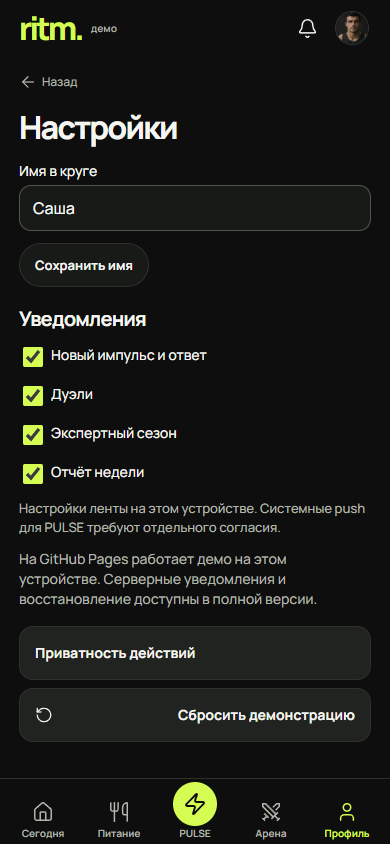
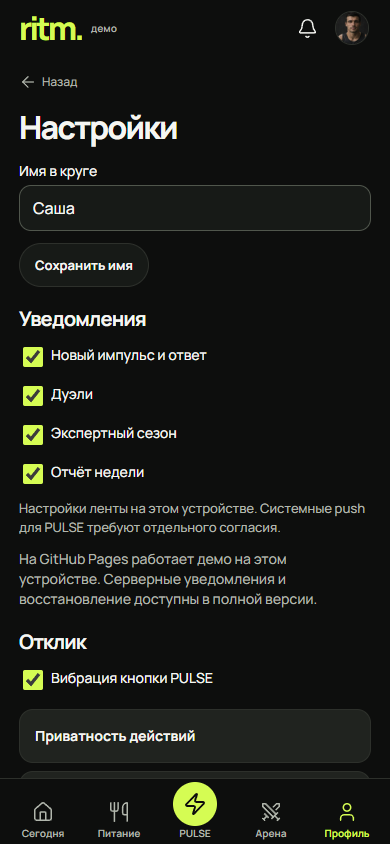
Give the PULSE button a two-beat tactile response

Changed region(s): [[0.0308, 0.7393, 0.9231, 0.8934]]

diff --git a/docs/premium.js b/docs/premium.js
@@ -35,6 +35,24 @@ const eventTime = stamp => S.server_time-stamp<86400?RitmHome.relative(stamp,S.s
 function homeHelpers() {
   return {I,e,demo,weekly,incoming,time,dinner:dishes().find(m=>m.type==='Ужин')};
 }
+const heartbeatPattern = [35, 85, 55];
+let nextHeartbeat = 0;
+function hapticsEnabled() {
+  return read('pulseHaptics') ?? !matchMedia('(prefers-reduced-motion: reduce)').matches;
+}
+function heartbeat() {
+  const now = performance.now();
+  if (document.hidden || now < nextHeartbeat) return;
+  nextHeartbeat = now + 240;
+  document.querySelector('#nav .pulse-nav')?.classList.add('heartbeat');
+  if (hapticsEnabled() && typeof navigator.vibrate === 'function') {
+    try { navigator.vibrate(heartbeatPattern); } catch { /* Some hosts block device vibration. */ }
+  }
+}
+function hapticSetting() {
+  if (typeof navigator.vibrate !== 'function') return '';
+  return '<h2>Отклик</h2><label class="checks"><input id="pulse-haptics" type="checkbox" '+(hapticsEnabled()?'checked':'')+'>Вибрация кнопки PULSE</label>';
+}
 function today() { return RitmHome.render(S,homeHelpers()); }
 function homeSheet(title,body) {
   document.getElementById('home-sheet')?.remove();
@@ -165,7 +183,7 @@ function recap() {
     muted('Ответы от друзей за 7 дней · '+contacts+'. В общей карточке виден только итог твоего плана.')+
     b('Поделиться карточкой','share-recap','btn full','share-2')+b('Скачать PNG','download-recap','textbtn full');
 }
-function settingsView(){const n=read('notifs')||{};return head('Настройки')+field('nickname','Имя в круге',S.profile.name,'text','maxlength="30"')+b('Сохранить имя','rename','linebtn')+'<h2>Уведомления</h2>'+[['pulse','Новый импульс и ответ'],['duel','Дуэли'],['season','Экспертный сезон'],['report','Отчёт недели']].map(([k,v])=>'<label class="checks"><input type="checkbox" data-pref="'+k+'" '+(n[k]!==false?'checked':'')+'>'+v+'</label>').join('')+'<p class="hint">Настройки ленты на этом устройстве. Системные push для PULSE требуют отдельного согласия.</p>'+(demo?muted('На GitHub Pages работает демо на этом устройстве. Серверные уведомления и восстановление доступны в полной версии.'):'<div class="row">'+b('Включить push','pushon','linebtn')+b('Отключить push','pushoff','linebtn')+'</div><h2>Доступ к профилю</h2>'+b('Получить одноразовый код','getcode','linebtn')+(code?'<p class="safe">'+e(code)+'</p>':'')+field('recovery','Код восстановления','','password','autocomplete="off"')+b('Восстановить','restore','linebtn'))+b('Приватность действий','go:privacy','choice')+(demo?b('Сбросить демонстрацию','resetask','choice','rotate-ccw'):'');}
+function settingsView(){const n=read('notifs')||{};return head('Настройки')+field('nickname','Имя в круге',S.profile.name,'text','maxlength="30"')+b('Сохранить имя','rename','linebtn')+'<h2>Уведомления</h2>'+[['pulse','Новый импульс и ответ'],['duel','Дуэли'],['season','Экспертный сезон'],['report','Отчёт недели']].map(([k,v])=>'<label class="checks"><input type="checkbox" data-pref="'+k+'" '+(n[k]!==false?'checked':'')+'>'+v+'</label>').join('')+'<p class="hint">Настройки ленты на этом устройстве. Системные push для PULSE требуют отдельного согласия.</p>'+(demo?muted('На GitHub Pages работает демо на этом устройстве. Серверные уведомления и восстановление доступны в полной версии.'):'<div class="row">'+b('Включить push','pushon','linebtn')+b('Отключить push','pushoff','linebtn')+'</div><h2>Доступ к профилю</h2>'+b('Получить одноразовый код','getcode','linebtn')+(code?'<p class="safe">'+e(code)+'</p>':'')+field('recovery','Код восстановления','','password','autocomplete="off"')+b('Восстановить','restore','linebtn'))+hapticSetting()+b('Приватность действий','go:privacy','choice')+(demo?b('Сбросить демонстрацию','resetask','choice','rotate-ccw'):'');}
 function notificationsView(){const pref=read('notifs')||{},notes=[];if(pref.pulse!==false)(S.feed||[]).filter(x=>x.person!==S.profile.id).slice(0,4).forEach(x=>notes.push([x.to_me?'Друг ответил своим делом':'Друг уже в движении',(x.name||'Друг')+' · '+labels[x.kind],'pulse']));if(pref.duel!==false&&S.games.some(g=>g.mode==='duel'&&g.active))notes.push(['Дуэль началась','Открой счёт и историю своих дней.','arena']);if(pref.report!==false&&weekly().total)notes.push(['Доступен RITM RECAP','Посмотри, какие дела вошли в неделю.','recap']);if(pref.season!==false&&demo)notes.push(['Сезоны открыты для просмотра','Демонстрационная витрина FOOD, RESET и DUO.','store']);return head('Уведомления')+(notes.length?notes.map(([t,m,k])=>'<button class="choice" data-a="go:'+k+'"><span>'+e(t)+'<br><small>'+e(m)+'</small></span>'+I('chevron-right')+'</button>').join(''):muted('Пока новых событий нет.'))+b('Настроить','go:settings','linebtn');}
 function renderMisc(){switch(view){
  case 'settings':return settingsView();case 'notifications':return notificationsView();
@@ -197,7 +215,7 @@ function clearInvite(){pendingGuest=null;guestInfo=null;const u=new URL(location
 async function seasonSave(){const existing=S.season,d=S.dna||{},plan=existing?{...existing.plan}:{focus:d.goal||'Регулярность тренировок',duration:Number(d.minutes)||20,place:d.place||'Дома',equipment:d.gear||'Без оборудования',adaptation:'Подойдёт привычная нагрузка',food_for:'Для себя',cooking:'15 минут',budget:d.budget||'Важна доступная цена'};plan.days=Number($('#days').value);let v=id=>$(id)?.value?Number($(id).value):null;
 await write('season',{plan,comparison:existing?existing.comparison:($('#comp')?.value||''),baseline:existing?existing.baseline:v('#base'),target:v('#target')});save('days',plan.days);notice('Условия сезона сохранены.');route('profile');}
 async function handle(id){const [cmd,...args]=id.split(':'),v=args.join(':');if(cmd!=='time')document.getElementById('home-sheet')?.close();if(!['complete','time','short','kind','workdone'].includes(cmd))pendingWorkout=null;switch(cmd){
- case 'go':if(v==='today'&&view==='intro')save('entered',true);if(v==='store')expose('offers');if(v==='train'&&view==='today')trainingKey='';route(v);break;
+ case 'go':if(v==='today'&&view==='intro')save('entered',true);if(v==='store')expose('offers');if(v==='train'&&view==='today')trainingKey='';route(v);if(v==='pulse')heartbeat();break;
  case 'sheetclose':document.getElementById('home-sheet')?.close();break;
  case 'quicktime':showHomeTime();break;
  case 'homeplan':showHomePlan();break;
@@ -231,7 +249,7 @@ async function handle(id){const [cmd,...args]=id.split(':'),v=args.join(':');if(
  case 'complete':{const isAnswer=Boolean(reply);if(!S.profile.goal&&!S.games.length){route('name');notice('Сначала сохрани профиль или прими приглашение.');break;}
  if(taskKind==='food'&&!allows(recipe(recipeChoice)))throw Error('Выбери блюдо с подходящим составом.');
  const visibility=($('#visible')?.checked||reply)?'circle':'private';const out=await write('done',{kind:taskKind,minutes:time,task:taskKind==='food'?recipe(recipeChoice).name:taskKind,visibility,...(pendingWorkout?{training:pendingWorkout}:{}),variant:time<=5?'alternative':'original',...(reply||{}),...(activeGame?{game:activeGame}:{})});
- pendingWorkout=null;reply=null;activeGame='';privateAction=true;save('entered',true);route('today');if(isAnswer)document.querySelector('.home-pulse')?.classList.add('pulse-sent');notice('Действие сохранено.');break;}
+ pendingWorkout=null;reply=null;activeGame='';privateAction=true;save('entered',true);route('today');if(isAnswer){document.querySelector('.home-pulse')?.classList.add('pulse-sent');heartbeat();}notice('Действие сохранено.');break;}
  case 'setup':arenaMode=v;route('setup');break;case 'together':arenaMode='together';route('setup');break;case 'gamekind':gameKind=v;draw();break;
  case 'create-mode':{let mode={team:'circle',week:'duel',together:'circle'}[arenaMode]||arenaMode;let slot=$('#slot')?.value;const res=await write('create',{mode,kind:gameKind,proposed:slot?Math.floor(new Date(slot).getTime()/1000):null});route('share',res.game);break;}
  case 'create':{const r=await write('create',{mode:v,kind:'move'});route('share',r.game);break;}
@@ -270,7 +288,7 @@ async function shareText(t,text){if(navigator.share){await navigator.share({titl
 async function recapShare(downloadOnly=false){const w=RitmHome.week(S,weekly),canvas=document.createElement('canvas');canvas.width=800;canvas.height=530;const ctx=canvas.getContext('2d');ctx.fillStyle='#101110';ctx.fillRect(0,0,800,530);ctx.fillStyle='#d5fc53';ctx.font='bold 70px Arial';ctx.fillText('ritm.',50,100);ctx.fillStyle='#f5f6f2';ctx.font='bold 46px Arial';ctx.fillText('Моя неделя',50,220);ctx.font='bold 76px Arial';ctx.fillText(w.percent+'%',50,337);ctx.font='27px Arial';ctx.fillText(w.caption,50,405);const blob=await new Promise(resolve=>canvas.toBlob(resolve,'image/png'));const file=new File([blob],'RITM-RECAP.png',{type:'image/png'});if(!downloadOnly&&navigator.canShare?.({files:[file]})){await navigator.share({files:[file],title:'RITM RECAP'});}else{const u=URL.createObjectURL(blob),a=document.createElement('a');a.href=u;a.download=file.name;a.click();setTimeout(()=>URL.revokeObjectURL(u),5000);notice('Карточка подготовлена.');}}
 async function seed(){if(demo){await window.ritmDemo.api('/demo/seed',{});S=await api('/api/me');}}
 document.addEventListener('click',async ev=>{const el=ev.target.closest('[data-a]');if(!el||busy)return;busy=true;try{await handle(el.dataset.a);}catch(err){if(err.name!=='AbortError')notice(err.message||'Попробуй ещё раз.');}finally{busy=false;}});
-document.addEventListener('change',ev=>{const el=ev.target;if(el.id==='visible')privateAction=!el.checked;if(el.dataset.pref){let o=read('notifs')||{};o[el.dataset.pref]=el.checked;save('notifs',o);}});
+document.addEventListener('change',ev=>{const el=ev.target;if(el.id==='pulse-haptics')save('pulseHaptics',el.checked);if(el.id==='visible')privateAction=!el.checked;if(el.dataset.pref){let o=read('notifs')||{};o[el.dataset.pref]=el.checked;save('notifs',o);}});
 async function init(){S=await api('/api/me');if(!S.allocation)await write('allocate',{channel:pendingGuest?'friend':new URLSearchParams(location.search).get('channel')||'direct'});const saved=read('available');time=(saved?.day===S.day?saved.minutes:null)||S.season?.plan.duration||Number(S.dna?.minutes)||20;
  if(pendingGuest){try{guestInfo=await api('/api/invite?token='+encodeURIComponent(pendingGuest));view='invite';}catch(err){clearInvite();notice(err.message);}}
  else if(demo&&new URLSearchParams(location.search).get('screen')==='today'){await seed();save('entered',true);view='today';}

diff --git a/web/premium.js b/web/premium.js
@@ -35,6 +35,24 @@ const eventTime = stamp => S.server_time-stamp<86400?RitmHome.relative(stamp,S.s
 function homeHelpers() {
   return {I,e,demo,weekly,incoming,time,dinner:dishes().find(m=>m.type==='Ужин')};
 }
+const heartbeatPattern = [35, 85, 55];
+let nextHeartbeat = 0;
+function hapticsEnabled() {
+  return read('pulseHaptics') ?? !matchMedia('(prefers-reduced-motion: reduce)').matches;
+}
+function heartbeat() {
+  const now = performance.now();
+  if (document.hidden || now < nextHeartbeat) return;
+  nextHeartbeat = now + 240;
+  document.querySelector('#nav .pulse-nav')?.classList.add('heartbeat');
+  if (hapticsEnabled() && typeof navigator.vibrate === 'function') {
+    try { navigator.vibrate(heartbeatPattern); } catch { /* Some hosts block device vibration. */ }
+  }
+}
+function hapticSetting() {
+  if (typeof navigator.vibrate !== 'function') return '';
+  return '<h2>Отклик</h2><label class="checks"><input id="pulse-haptics" type="checkbox" '+(hapticsEnabled()?'checked':'')+'>Вибрация кнопки PULSE</label>';
+}
 function today() { return RitmHome.render(S,homeHelpers()); }
 function homeSheet(title,body) {
   document.getElementById('home-sheet')?.remove();
@@ -165,7 +183,7 @@ function recap() {
     muted('Ответы от друзей за 7 дней · '+contacts+'. В общей карточке виден только итог твоего плана.')+
     b('Поделиться карточкой','share-recap','btn full','share-2')+b('Скачать PNG','download-recap','textbtn full');
 }
-function settingsView(){const n=read('notifs')||{};return head('Настройки')+field('nickname','Имя в круге',S.profile.name,'text','maxlength="30"')+b('Сохранить имя','rename','linebtn')+'<h2>Уведомления</h2>'+[['pulse','Новый импульс и ответ'],['duel','Дуэли'],['season','Экспертный сезон'],['report','Отчёт недели']].map(([k,v])=>'<label class="checks"><input type="checkbox" data-pref="'+k+'" '+(n[k]!==false?'checked':'')+'>'+v+'</label>').join('')+'<p class="hint">Настройки ленты на этом устройстве. Системные push для PULSE требуют отдельного согласия.</p>'+(demo?muted('На GitHub Pages работает демо на этом устройстве. Серверные уведомления и восстановление доступны в полной версии.'):'<div class="row">'+b('Включить push','pushon','linebtn')+b('Отключить push','pushoff','linebtn')+'</div><h2>Доступ к профилю</h2>'+b('Получить одноразовый код','getcode','linebtn')+(code?'<p class="safe">'+e(code)+'</p>':'')+field('recovery','Код восстановления','','password','autocomplete="off"')+b('Восстановить','restore','linebtn'))+b('Приватность действий','go:privacy','choice')+(demo?b('Сбросить демонстрацию','resetask','choice','rotate-ccw'):'');}
+function settingsView(){const n=read('notifs')||{};return head('Настройки')+field('nickname','Имя в круге',S.profile.name,'text','maxlength="30"')+b('Сохранить имя','rename','linebtn')+'<h2>Уведомления</h2>'+[['pulse','Новый импульс и ответ'],['duel','Дуэли'],['season','Экспертный сезон'],['report','Отчёт недели']].map(([k,v])=>'<label class="checks"><input type="checkbox" data-pref="'+k+'" '+(n[k]!==false?'checked':'')+'>'+v+'</label>').join('')+'<p class="hint">Настройки ленты на этом устройстве. Системные push для PULSE требуют отдельного согласия.</p>'+(demo?muted('На GitHub Pages работает демо на этом устройстве. Серверные уведомления и восстановление доступны в полной версии.'):'<div class="row">'+b('Включить push','pushon','linebtn')+b('Отключить push','pushoff','linebtn')+'</div><h2>Доступ к профилю</h2>'+b('Получить одноразовый код','getcode','linebtn')+(code?'<p class="safe">'+e(code)+'</p>':'')+field('recovery','Код восстановления','','password','autocomplete="off"')+b('Восстановить','restore','linebtn'))+hapticSetting()+b('Приватность действий','go:privacy','choice')+(demo?b('Сбросить демонстрацию','resetask','choice','rotate-ccw'):'');}
 function notificationsView(){const pref=read('notifs')||{},notes=[];if(pref.pulse!==false)(S.feed||[]).filter(x=>x.person!==S.profile.id).slice(0,4).forEach(x=>notes.push([x.to_me?'Друг ответил своим делом':'Друг уже в движении',(x.name||'Друг')+' · '+labels[x.kind],'pulse']));if(pref.duel!==false&&S.games.some(g=>g.mode==='duel'&&g.active))notes.push(['Дуэль началась','Открой счёт и историю своих дней.','arena']);if(pref.report!==false&&weekly().total)notes.push(['Доступен RITM RECAP','Посмотри, какие дела вошли в неделю.','recap']);if(pref.season!==false&&demo)notes.push(['Сезоны открыты для просмотра','Демонстрационная витрина FOOD, RESET и DUO.','store']);return head('Уведомления')+(notes.length?notes.map(([t,m,k])=>'<button class="choice" data-a="go:'+k+'"><span>'+e(t)+'<br><small>'+e(m)+'</small></span>'+I('chevron-right')+'</button>').join(''):muted('Пока новых событий нет.'))+b('Настроить','go:settings','linebtn');}
 function renderMisc(){switch(view){
  case 'settings':return settingsView();case 'notifications':return notificationsView();
@@ -197,7 +215,7 @@ function clearInvite(){pendingGuest=null;guestInfo=null;const u=new URL(location
 async function seasonSave(){const existing=S.season,d=S.dna||{},plan=existing?{...existing.plan}:{focus:d.goal||'Регулярность тренировок',duration:Number(d.minutes)||20,place:d.place||'Дома',equipment:d.gear||'Без оборудования',adaptation:'Подойдёт привычная нагрузка',food_for:'Для себя',cooking:'15 минут',budget:d.budget||'Важна доступная цена'};plan.days=Number($('#days').value);let v=id=>$(id)?.value?Number($(id).value):null;
 await write('season',{plan,comparison:existing?existing.comparison:($('#comp')?.value||''),baseline:existing?existing.baseline:v('#base'),target:v('#target')});save('days',plan.days);notice('Условия сезона сохранены.');route('profile');}
 async function handle(id){const [cmd,...args]=id.split(':'),v=args.join(':');if(cmd!=='time')document.getElementById('home-sheet')?.close();if(!['complete','time','short','kind','workdone'].includes(cmd))pendingWorkout=null;switch(cmd){
- case 'go':if(v==='today'&&view==='intro')save('entered',true);if(v==='store')expose('offers');if(v==='train'&&view==='today')trainingKey='';route(v);break;
+ case 'go':if(v==='today'&&view==='intro')save('entered',true);if(v==='store')expose('offers');if(v==='train'&&view==='today')trainingKey='';route(v);if(v==='pulse')heartbeat();break;
  case 'sheetclose':document.getElementById('home-sheet')?.close();break;
  case 'quicktime':showHomeTime();break;
  case 'homeplan':showHomePlan();break;
@@ -231,7 +249,7 @@ async function handle(id){const [cmd,...args]=id.split(':'),v=args.join(':');if(
  case 'complete':{const isAnswer=Boolean(reply);if(!S.profile.goal&&!S.games.length){route('name');notice('Сначала сохрани профиль или прими приглашение.');break;}
  if(taskKind==='food'&&!allows(recipe(recipeChoice)))throw Error('Выбери блюдо с подходящим составом.');
  const visibility=($('#visible')?.checked||reply)?'circle':'private';const out=await write('done',{kind:taskKind,minutes:time,task:taskKind==='food'?recipe(recipeChoice).name:taskKind,visibility,...(pendingWorkout?{training:pendingWorkout}:{}),variant:time<=5?'alternative':'original',...(reply||{}),...(activeGame?{game:activeGame}:{})});
- pendingWorkout=null;reply=null;activeGame='';privateAction=true;save('entered',true);route('today');if(isAnswer)document.querySelector('.home-pulse')?.classList.add('pulse-sent');notice('Действие сохранено.');break;}
+ pendingWorkout=null;reply=null;activeGame='';privateAction=true;save('entered',true);route('today');if(isAnswer){document.querySelector('.home-pulse')?.classList.add('pulse-sent');heartbeat();}notice('Действие сохранено.');break;}
  case 'setup':arenaMode=v;route('setup');break;case 'together':arenaMode='together';route('setup');break;case 'gamekind':gameKind=v;draw();break;
  case 'create-mode':{let mode={team:'circle',week:'duel',together:'circle'}[arenaMode]||arenaMode;let slot=$('#slot')?.value;const res=await write('create',{mode,kind:gameKind,proposed:slot?Math.floor(new Date(slot).getTime()/1000):null});route('share',res.game);break;}
  case 'create':{const r=await write('create',{mode:v,kind:'move'});route('share',r.game);break;}
@@ -270,7 +288,7 @@ async function shareText(t,text){if(navigator.share){await navigator.share({titl
 async function recapShare(downloadOnly=false){const w=RitmHome.week(S,weekly),canvas=document.createElement('canvas');canvas.width=800;canvas.height=530;const ctx=canvas.getContext('2d');ctx.fillStyle='#101110';ctx.fillRect(0,0,800,530);ctx.fillStyle='#d5fc53';ctx.font='bold 70px Arial';ctx.fillText('ritm.',50,100);ctx.fillStyle='#f5f6f2';ctx.font='bold 46px Arial';ctx.fillText('Моя неделя',50,220);ctx.font='bold 76px Arial';ctx.fillText(w.percent+'%',50,337);ctx.font='27px Arial';ctx.fillText(w.caption,50,405);const blob=await new Promise(resolve=>canvas.toBlob(resolve,'image/png'));const file=new File([blob],'RITM-RECAP.png',{type:'image/png'});if(!downloadOnly&&navigator.canShare?.({files:[file]})){await navigator.share({files:[file],title:'RITM RECAP'});}else{const u=URL.createObjectURL(blob),a=document.createElement('a');a.href=u;a.download=file.name;a.click();setTimeout(()=>URL.revokeObjectURL(u),5000);notice('Карточка подготовлена.');}}
 async function seed(){if(demo){await window.ritmDemo.api('/demo/seed',{});S=await api('/api/me');}}
 document.addEventListener('click',async ev=>{const el=ev.target.closest('[data-a]');if(!el||busy)return;busy=true;try{await handle(el.dataset.a);}catch(err){if(err.name!=='AbortError')notice(err.message||'Попробуй ещё раз.');}finally{busy=false;}});
-document.addEventListener('change',ev=>{const el=ev.target;if(el.id==='visible')privateAction=!el.checked;if(el.dataset.pref){let o=read('notifs')||{};o[el.dataset.pref]=el.checked;save('notifs',o);}});
+document.addEventListener('change',ev=>{const el=ev.target;if(el.id==='pulse-haptics')save('pulseHaptics',el.checked);if(el.id==='visible')privateAction=!el.checked;if(el.dataset.pref){let o=read('notifs')||{};o[el.dataset.pref]=el.checked;save('notifs',o);}});
 async function init(){S=await api('/api/me');if(!S.allocation)await write('allocate',{channel:pendingGuest?'friend':new URLSearchParams(location.search).get('channel')||'direct'});const saved=read('available');time=(saved?.day===S.day?saved.minutes:null)||S.season?.plan.duration||Number(S.dna?.minutes)||20;
  if(pendingGuest){try{guestInfo=await api('/api/invite?token='+encodeURIComponent(pendingGuest));view='invite';}catch(err){clearInvite();notice(err.message);}}
  else if(demo&&new URLSearchParams(location.search).get('screen')==='today'){await seed();save('entered',true);view='today';}

diff --git a/docs/index.html b/docs/index.html
@@ -1,3 +1,3 @@
-<!doctype html><html lang="ru"><head><meta charset="utf-8"><meta name="viewport" content="width=device-width, initial-scale=1, viewport-fit=cover"><meta name="theme-color" content="#0D0E0D"><meta name="apple-mobile-web-app-capable" content="yes"><meta name="mobile-web-app-capable" content="yes"><meta name="apple-mobile-web-app-status-bar-style" content="black-translucent"><meta name="apple-mobile-web-app-title" content="RITM"><title>ritm. — Твой день</title><link rel="icon" href="icon.png"><link rel="apple-touch-icon" sizes="180x180" href="assets/edition/apple-touch.png"><link rel="manifest" href="manifest.webmanifest?v=system1"><link rel="stylesheet" href="assets/fonts.css"><link rel="stylesheet" href="premium.css"><link rel="stylesheet" href="assets/home/home.css"><link rel="stylesheet" href="assets/edition/app.css?v=system1"></head><body>
+<!doctype html><html lang="ru"><head><meta charset="utf-8"><meta name="viewport" content="width=device-width, initial-scale=1, viewport-fit=cover"><meta name="theme-color" content="#0D0E0D"><meta name="apple-mobile-web-app-capable" content="yes"><meta name="mobile-web-app-capable" content="yes"><meta name="apple-mobile-web-app-status-bar-style" content="black-translucent"><meta name="apple-mobile-web-app-title" content="RITM"><title>ritm. — Твой день</title><link rel="icon" href="icon.png"><link rel="apple-touch-icon" sizes="180x180" href="assets/edition/apple-touch.png"><link rel="manifest" href="manifest.webmanifest?v=system1"><link rel="stylesheet" href="assets/fonts.css"><link rel="stylesheet" href="premium.css"><link rel="stylesheet" href="assets/home/home.css"><link rel="stylesheet" href="assets/edition/app.css?v=beat1"></head><body>
 <a class="skip" href="#content">К содержимому</a><div class="shell"><header id="head"><span class="wordmark">ritm.</span></header><main id="content" tabindex="-1"><div class="splash"><span class="wordmark">ritm.</span><svg viewBox="0 0 120 34" aria-hidden="true"><path d="M2 18h38l9-13 11 26 11-19 7 6h40"/></svg><p role="status">Открываем твой день…</p><div class="skeleton"></div></div></main><nav id="nav" aria-label="Основная навигация"></nav></div><div id="toast" role="status" aria-live="polite"></div>
-<script>window.RITM_PREMIUM=true;</script><script src="browser.js?rev=system1"></script><script src="assets/icons.js"></script><script src="content.js?v=system1"></script><script src="season.js"></script><script src="app.js"></script><script src="assets/edition/visual.js"></script><script src="assets/home/view.js?v=system1"></script><script src="premium.js?rev=system1"></script></body></html>
+<script>window.RITM_PREMIUM=true;</script><script src="browser.js?rev=system1"></script><script src="assets/icons.js"></script><script src="content.js?v=system1"></script><script src="season.js"></script><script src="app.js"></script><script src="assets/edition/visual.js"></script><script src="assets/home/view.js?v=system1"></script><script src="premium.js?rev=beat1"></script></body></html>

diff --git a/web/mobile.html b/web/mobile.html
@@ -1,3 +1,3 @@
-<!doctype html><html lang="ru"><head><meta charset="utf-8"><meta name="viewport" content="width=device-width, initial-scale=1, viewport-fit=cover"><meta name="theme-color" content="#0D0E0D"><meta name="apple-mobile-web-app-capable" content="yes"><meta name="mobile-web-app-capable" content="yes"><meta name="apple-mobile-web-app-status-bar-style" content="black-translucent"><meta name="apple-mobile-web-app-title" content="RITM"><title>ritm. — Твой день</title><link rel="icon" href="icon.png"><link rel="apple-touch-icon" sizes="180x180" href="assets/edition/apple-touch.png"><link rel="manifest" href="manifest.webmanifest?v=system1"><link rel="stylesheet" href="assets/fonts.css"><link rel="stylesheet" href="premium.css"><link rel="stylesheet" href="assets/home/home.css"><link rel="stylesheet" href="assets/edition/app.css?v=system1"></head><body>
+<!doctype html><html lang="ru"><head><meta charset="utf-8"><meta name="viewport" content="width=device-width, initial-scale=1, viewport-fit=cover"><meta name="theme-color" content="#0D0E0D"><meta name="apple-mobile-web-app-capable" content="yes"><meta name="mobile-web-app-capable" content="yes"><meta name="apple-mobile-web-app-status-bar-style" content="black-translucent"><meta name="apple-mobile-web-app-title" content="RITM"><title>ritm. — Твой день</title><link rel="icon" href="icon.png"><link rel="apple-touch-icon" sizes="180x180" href="assets/edition/apple-touch.png"><link rel="manifest" href="manifest.webmanifest?v=system1"><link rel="stylesheet" href="assets/fonts.css"><link rel="stylesheet" href="premium.css"><link rel="stylesheet" href="assets/home/home.css"><link rel="stylesheet" href="assets/edition/app.css?v=beat1"></head><body>
 <a class="skip" href="#content">К содержимому</a><div class="shell"><header id="head"><span class="wordmark">ritm.</span></header><main id="content" tabindex="-1"><div class="splash"><span class="wordmark">ritm.</span><svg viewBox="0 0 120 34" aria-hidden="true"><path d="M2 18h38l9-13 11 26 11-19 7 6h40"/></svg><p role="status">Открываем твой день…</p><div class="skeleton"></div></div></main><nav id="nav" aria-label="Основная навигация"></nav></div><div id="toast" role="status" aria-live="polite"></div>
-<script>window.RITM_PREMIUM=true;</script><!-- preview-runtime --><script src="assets/icons.js"></script><script src="content.js?v=system1"></script><script src="season.js"></script><script src="app.js"></script><script src="assets/edition/visual.js"></script><script src="assets/home/view.js?v=system1"></script><script src="premium.js?rev=system1"></script></body></html>
+<script>window.RITM_PREMIUM=true;</script><!-- preview-runtime --><script src="assets/icons.js"></script><script src="content.js?v=system1"></script><script src="season.js"></script><script src="app.js"></script><script src="assets/edition/visual.js"></script><script src="assets/home/view.js?v=system1"></script><script src="premium.js?rev=beat1"></script></body></html>

diff --git a/docs/assets/edition/app.css b/docs/assets/edition/app.css
@@ -143,3 +143,12 @@ body[data-screen="intro"] h1 span {white-space:nowrap;}
 input[type=checkbox] {accent-color:var(--accent);}
 body[data-screen="game"] .edition-face {width:36px;height:36px;}
 @media(max-width:330px){body[data-screen="intro"] h1 span{white-space:normal;}}
+
+@media (prefers-reduced-motion: no-preference) {
+  #nav .pulse-nav.heartbeat svg { animation: ritm-heartbeat 240ms ease-out; }
+  @keyframes ritm-heartbeat {
+    0%, 30%, 100% { transform: scale(1); }
+    12% { transform: scale(1.08); }
+    58% { transform: scale(1.13); }
+  }
+}

diff --git a/web/assets/edition/app.css b/web/assets/edition/app.css
@@ -143,3 +143,12 @@ body[data-screen="intro"] h1 span {white-space:nowrap;}
 input[type=checkbox] {accent-color:var(--accent);}
 body[data-screen="game"] .edition-face {width:36px;height:36px;}
 @media(max-width:330px){body[data-screen="intro"] h1 span{white-space:normal;}}
+
+@media (prefers-reduced-motion: no-preference) {
+  #nav .pulse-nav.heartbeat svg { animation: ritm-heartbeat 240ms ease-out; }
+  @keyframes ritm-heartbeat {
+    0%, 30%, 100% { transform: scale(1); }
+    12% { transform: scale(1.08); }
+    58% { transform: scale(1.13); }
+  }
+}

diff --git a/tests/pwa_progress.py b/tests/pwa_progress.py
@@ -18,6 +18,10 @@ def run(site):
                 p=ctx.pages[0]
             else:
                 browser=pw.webkit.launch();ctx=browser.new_context(**options);p=ctx.new_page()
+            if engine=='chromium':
+                p.add_init_script('''window.heartbeatCalls = [];
+                    Object.defineProperty(navigator, 'vibrate', {configurable:true,
+                        value:pattern=>{window.heartbeatCalls.push(pattern);return true;}});''')
             p.goto(site.rstrip('/')+'/?screen=today')
             p.locator('.home-week').wait_for(timeout=90000)
             action=lambda k:p.locator('[data-a="'+k+'"]').first
@@ -38,12 +42,36 @@ def run(site):
             action('quicktime').click();action('time:10').click()
             p.goto(urljoin(p.url,manifest['start_url']));p.locator('.home-week').wait_for(timeout=90000)
             assert '10 мин' in action('quicktime').inner_text()
+            nav_pulse=p.locator('#nav .pulse-nav')
+            if engine=='chromium':
+                assert p.evaluate('heartbeatCalls')==[]
+                nav_pulse.click()
+                assert p.evaluate('heartbeatCalls')==[[35,85,55]]
+                assert nav_pulse.locator('svg').evaluate("n=>getComputedStyle(n).animationName")=='ritm-heartbeat'
+                action('go:profile').click();action('go:settings').click()
+                p.locator('#pulse-haptics').uncheck()
+                p.reload();p.locator('.home-week').wait_for(timeout=90000)
+                nav_pulse.click()
+                assert p.evaluate('heartbeatCalls')==[]
+                action('go:profile').click();action('go:settings').click()
+                assert not p.locator('#pulse-haptics').is_checked()
+                p.locator('#pulse-haptics').check()
+                action('go:today').click()
+            else:
+                nav_pulse.click()
+                assert p.locator('body').get_attribute('data-screen')=='pulse'
             action('respond').click();action('kind:food').click();action('complete').click()
             p.get_by_text('10 из 11 действий',exact=True).wait_for()
             for name in ('today','profile','recap'):
                 if name!='today':action('go:'+name).click()
                 assert p.locator('.screen').get_by_text('10 из 11 действий',exact=True).is_visible()
             assert p.locator('.big').inner_text()=='91%'
+            if engine=='chromium':
+                assert p.evaluate('heartbeatCalls')==[[35,85,55]]
+                p.emulate_media(reduced_motion='reduce')
+                nav_pulse.click()
+                assert nav_pulse.locator('svg').evaluate("n=>getComputedStyle(n).animationName")=='none'
+
             print(engine,'passed standalone launch URL, real 82% to 91%, time persistence, dynamic viewport and navigation')
             ctx.close()
             if engine=='webkit':browser.close()

diff --git a/DESIGN.md b/DESIGN.md
@@ -14,7 +14,7 @@
 
 ## Визуальная система
 
-Manrope с кириллицей. Фон `#0D0E0D`, поверхность `#171A17`, карточки `#20231F`, акцент `#D5FC53`, текст `#F5F6F2`, подписи `#B1B6AC`, разделитель `#2D302B`, дополнительный зелёный `#A6C85B`. Нижняя панель удерживает пять точек входа. Лайм выделяет входящий PULSE, выбранный элемент и прогресс. Кольцо показывает долю запланированных дней. Цвет дополнен числом или подписью. Фотографии и шрифт загружаются с того же сайта.
+Manrope с кириллицей. Фон `#0D0E0D`, поверхность `#171A17`, карточки `#20231F`, акцент `#D5FC53`, текст `#F5F6F2`, подписи `#B1B6AC`, разделитель `#2D302B`, дополнительный зелёный `#A6C85B`. Нижняя панель удерживает пять точек входа. Лайм выделяет входящий PULSE, выбранный элемент и прогресс. Кольцо показывает выполнение плана по данным участника. Цвет дополнен числом или подписью. Фотографии и шрифт загружаются с того же сайта. При нажатии центральной кнопки PULSE и подтверждённом ответе другу приложение запрашивает через Vibration API двойной удар длительностью 35 и 55 мс с паузой 85 мс. Настройка вибрации находится в профиле на поддерживаемых устройствах. В Safari на iPhone двойной удар отображается анимацией кнопки. Режим сокращённого движения отключает анимацию и по умолчанию вибрацию.
 
 Для показа на компьютере сохранён компактный мобильный разворот. Сетка кратна 4/8 px. Учитываются системные отступы iOS, фокус клавиатуры, предпочтение сокращённого движения и состояние загрузки движка. Кнопки и рецепты используют общие компоненты в `web/premium.js`, дизайн-токены находятся в `web/premium.css`.
 
